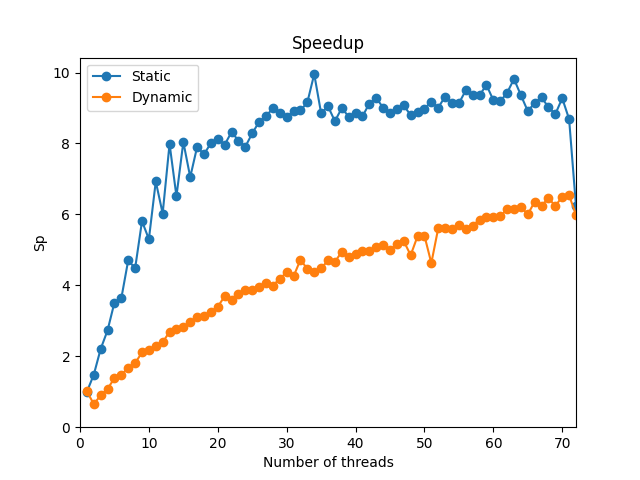
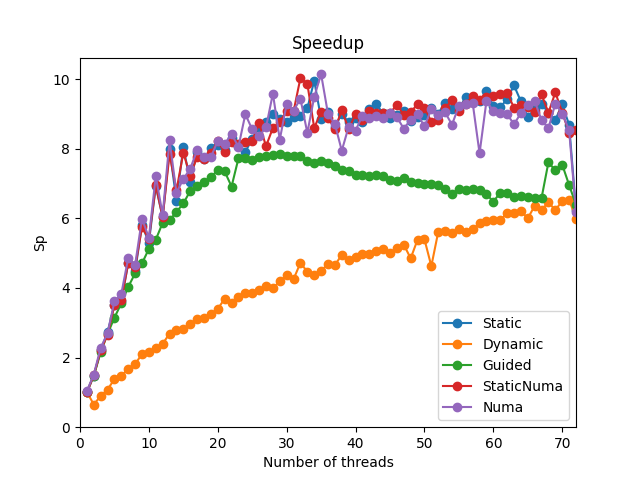
Completed Task 9 and outlined Task 10

diff --git a/speedup.py b/speedup.py
@@ -11,15 +11,32 @@ times1Dynamic = [32.8484, 52.6335, 37.1783, 30.071, 23.9616, 22.1027, 19.2425, 1
 times2Dynamic = [32.4279, 49.7113, 36.1594, 30.4442, 23.6621, 22.2762, 19.9909, 18.244, 15.5458, 15.666, 14.2848, 13.661, 12.6123, 12.3755, 11.7569, 11.3029, 10.8057, 9.93926, 10.499, 10.0047, 9.60067, 9.32298, 8.84968, 8.91768, 8.11446, 8.49146, 8.38761, 8.17628, 7.98234, 7.83894, 7.69279, 6.92043, 7.31858, 7.52684, 7.06135, 6.80453, 7.13695, 6.58506, 7.02564, 6.71825, 6.73708, 6.73728, 6.43826, 6.42514, 6.30908, 6.42235, 6.2753, 6.30629, 5.98943, 6.32487, 9.37161, 5.83001, 5.8169, 5.81686, 5.89856, 5.6446, 5.85456, 5.68795, 5.64406, 5.54505, 5.58778, 5.35824, 5.38527, 5.24133, 5.6156, 5.08084, 5.19321, 4.99258, 4.93264, 5.0933, 4.85399, 6.28069]
 times3Dynamic = [32.2587, 49.1249, 36.7216, 30.7893, 23.7955, 22.1104, 19.8399, 18.144, 15.6695, 15.3527, 14.629, 13.5979, 12.7003, 12.6268, 11.7868, 11.1648, 10.8927, 10.8657, 10.2065, 9.78856, 9.29841, 9.04579, 9.09542, 8.56107, 8.8048, 8.63606, 7.51705, 8.42818, 7.48019, 7.07609, 7.92124, 6.21913, 7.38923, 7.61599, 7.31153, 7.47861, 6.98978, 6.69512, 6.71364, 6.84292, 6.57832, 6.47322, 6.51332, 6.36225, 6.3276, 6.35087, 6.31934, 7.80881, 6.20807, 6.00367, 5.92901, 5.86021, 5.80028, 5.8964, 5.80871, 5.74799, 5.93484, 5.5302, 5.45806, 5.60683, 5.56247, 5.32585, 5.24932, 5.42943, 5.59375, 5.22713, 5.52537, 5.08627, 5.67103, 5.05252, 5.19845, 5.29971]
 timesDynamic = [(time1+time2+time3)/3 for time1,time2,time3 in zip(times1Dynamic,times2Dynamic,times3Dynamic)]
-Speedup = [timesStatic[0]/time for time in timesStatic]
+times1StaticNuma = [33.6972, 22.0721, 15.0282, 12.1709, 9.25962, 8.87557, 6.94593, 7.11662, 5.57668, 6.04679, 4.81386, 5.37966, 4.25649, 4.93476, 4.10945, 4.63646, 4.24054, 4.33483, 4.19797, 4.16133, 4.18737, 4.05768, 3.95412, 3.70869, 4.21711, 3.59456, 4.12534, 4.24823, 4.157, 3.87886, 3.34256, 3.30836, 3.22243, 3.8752, 3.30348, 3.76456, 3.81563, 3.82026, 3.98509, 3.74957, 3.60335, 3.56401, 3.78694, 3.52069, 3.35222, 3.47292, 3.70803, 3.65429, 3.39329, 3.62295, 3.6239, 3.62239, 3.58876, 3.43406, 3.44816, 3.37786, 3.48082, 3.47498, 3.56133, 3.42249, 3.61704, 3.37543, 3.40256, 3.67566, 3.31048, 3.65908, 3.37369, 3.62689, 3.45507, 4.0588, 3.67623, 3.63421]
+times2StaticNuma = [32.6721, 22.1668, 14.9585, 12.4613, 9.57264, 9.15334, 7.15852, 7.38384, 5.62478, 6.37936, 4.7486, 5.54541, 4.15796, 4.94482, 3.95428, 4.63347, 4.04983, 4.09304, 4.16087, 3.80661, 4.03128, 3.94934, 4.07561, 4.23444, 4.35493, 3.65324, 3.97939, 3.28138, 3.44004, 3.46529, 3.45343, 3.20426, 3.5228, 3.81069, 3.97944, 3.70402, 4.04518, 3.56841, 3.68616, 3.65113, 3.73139, 3.58866, 3.55049, 3.67787, 3.75042, 3.51053, 3.4831, 3.68131, 3.67406, 3.55924, 3.93346, 3.66292, 3.62054, 3.52915, 3.64733, 3.58568, 3.49449, 3.55422, 3.43371, 3.47539, 3.2466, 3.38684, 3.56844, 3.64151, 3.48952, 3.56467, 3.53602, 3.68136, 3.5274, 3.37953, 3.88261, 3.67405]
+times3StaticNuma = [32.3399, 22.0329, 14.7665, 12.5072, 9.29005, 9.04914, 6.79621, 7.01043, 5.9434, 5.8525, 4.6354, 5.43031, 4.15592, 4.63248, 4.45536, 4.39154, 4.41767, 4.36531, 4.19173, 4.0363, 4.27649, 4.05242, 4.09103, 4.10992, 3.41927, 4.03646, 4.12411, 3.95035, 3.67796, 3.50765, 4.08462, 3.32488, 3.25676, 3.79262, 3.61086, 3.64612, 3.65307, 3.45378, 3.85129, 3.57044, 3.85658, 3.71822, 3.60117, 3.72773, 3.83811, 3.66641, 3.80606, 3.57243, 3.56411, 3.56415, 3.69093, 3.9025, 3.55437, 3.53512, 3.75767, 3.65726, 3.40194, 3.45743, 3.42407, 3.46004, 3.45998, 3.50605, 3.78534, 3.33429, 3.94388, 3.68799, 3.41443, 3.61723, 3.28075, 3.47852, 4.10877, 4.24858]
+timesStaticNuma = [(time1+time2+time3)/3 for time1,time2,time3 in zip(times1StaticNuma,times2StaticNuma,times3StaticNuma)]
+times1Guided = [32.1715, 22.094, 15.3676, 12.214, 10.4865, 9.23644, 8.18211, 7.4288, 7.01284, 6.46638, 6.0776, 5.55324, 5.54063, 5.36963, 5.11762, 4.64729, 4.82984, 4.66708, 4.61413, 4.42894, 4.48669, 4.36601, 4.16126, 4.18252, 4.34946, 4.14808, 4.23431, 4.21625, 4.22687, 4.14274, 4.31488, 4.21833, 4.31556, 4.33067, 4.31988, 4.41258, 4.44376, 4.51204, 4.45277, 4.51862, 4.51352, 4.63112, 4.53153, 4.60336, 4.6089, 4.57976, 4.49097, 4.66233, 4.73587, 4.66716, 4.73098, 4.78145, 4.75845, 5.24675, 4.80367, 4.76609, 4.83504, 4.87565, 4.89425, 4.8521, 4.95462, 4.8591, 4.92983, 4.92768, 4.90138, 5.1357, 5.06219, 4.22639, 4.31805, 4.42778, 4.90276, 6.1635]
+times2Guided = [32.5181, 22.4785, 15.2598, 12.4282, 10.5267, 9.27197, 8.14144, 7.52002, 7.08568, 6.39977, 6.07204, 5.4905, 5.47345, 5.36868, 5.16741, 4.94161, 4.61107, 4.67968, 4.61223, 4.59129, 4.52014, 5.42893, 4.36467, 4.35981, 4.33999, 4.24618, 4.29139, 4.11461, 4.07948, 4.30822, 4.21266, 4.24136, 4.2187, 4.28334, 4.30801, 4.31545, 4.29898, 4.44603, 4.38475, 4.5755, 4.60495, 4.5312, 4.51585, 4.48982, 4.62666, 4.70663, 4.64249, 4.70933, 4.55331, 4.72413, 4.73938, 4.70636, 4.74366, 4.75128, 4.75572, 4.7386, 4.75689, 4.77808, 4.84732, 5.38824, 4.88831, 4.88084, 4.9619, 4.94923, 4.99368, 4.98734, 4.90383, 4.45787, 4.26586, 4.34723, 5.01282, 4.28477]
+times3Guided = [31.9477, 22.2387, 15.1755, 12.187, 10.3314, 9.23178, 8.16105, 7.38756, 6.86851, 6.39688, 6.16975, 5.76508, 5.58053, 5.2201, 5.06833, 4.95382, 4.80151, 4.66335, 4.49081, 4.35648, 4.42629, 4.47869, 4.25703, 4.20873, 4.15688, 4.34088, 4.16335, 4.27913, 4.27347, 4.2003, 4.13378, 4.18829, 4.37196, 4.36784, 4.30135, 4.25269, 4.39561, 4.40531, 4.56125, 4.52416, 4.50731, 4.48894, 4.59641, 4.6036, 4.64752, 4.64059, 4.63591, 4.65193, 4.78298, 4.70614, 4.63352, 4.70272, 4.92493, 4.72895, 4.83509, 4.99346, 4.83744, 4.80979, 4.99664, 4.99345, 4.80944, 4.90993, 5.04359, 4.96365, 5.0352, 4.89426, 5.02159, 4.27997, 4.7991, 4.31289, 4.26889, 5.00572]
+timesGuided = [(time1+time2+time3)/3 for time1,time2,time3 in zip(times1Guided,times2Guided,times3Guided)]
+times1Numa = [31.8835, 21.7996, 14.5836, 12.4134, 9.1711, 8.63239, 6.85908, 7.15359, 5.54762, 6.17272, 4.59112, 5.34015, 4.0364, 4.91059, 4.84982, 4.55696, 4.26993, 4.47734, 4.29092, 4.09635, 3.87343, 3.94721, 4.06555, 3.80302, 3.67394, 3.93173, 4.18143, 3.29427, 4.07188, 3.2398, 3.3235, 3.73239, 3.91502, 3.39198, 3.1814, 3.72887, 3.66989, 4.58648, 4.10267, 3.65899, 3.64352, 3.7494, 3.76632, 3.71687, 3.58437, 3.63993, 3.95292, 3.79852, 3.773, 3.81538, 3.60985, 3.72178, 3.66789, 3.85872, 3.47101, 3.41197, 3.47676, 4.65414, 3.53681, 3.53009, 3.41556, 3.60374, 3.43443, 3.62406, 3.40746, 3.56863, 3.70149, 3.88479, 3.41102, 3.56108, 3.9163, 3.68649]
+times2Numa = [31.4331, 21.6799, 14.2813, 11.9485, 9.03714, 8.532, 6.67631, 6.96331, 5.43459, 5.9153, 4.53715, 5.43386, 3.94497, 4.86191, 4.3771, 4.3036, 4.00214, 4.01241, 4.19095, 3.89911, 4.21136, 3.86683, 4.1014, 3.51489, 4.01787, 3.93572, 3.45925, 3.57056, 3.89159, 3.84543, 3.90936, 3.24249, 3.8668, 3.5426, 3.30532, 3.58161, 3.88396, 3.69674, 3.51889, 4.06357, 3.70532, 3.66554, 3.5862, 3.68114, 3.71441, 3.75006, 3.71663, 3.65055, 3.54585, 3.79972, 3.59047, 3.62304, 3.60685, 3.71311, 3.65521, 3.67628, 3.58696, 3.70805, 3.4862, 3.71044, 3.8698, 3.71402, 4.12461, 3.66979, 3.69302, 3.45005, 3.76085, 3.77211, 3.66735, 3.74233, 3.79523, 6.96492]
+timesNuma = [(time1+time2)/2 for time1,time2 in zip(times1Numa,times2Numa)]
+SpeedupStatic = [timesStatic[0]/time for time in timesStatic]
 SpeedupDynamic = [timesStatic[0]/time for time in timesDynamic]
-Efficiency = [speedup/thread for speedup,thread in zip(Speedup,threads)]
+SpeedupGuided = [timesStatic[0]/time for time in timesGuided]
+SpeedupStaticNuma = [timesStatic[0]/time for time in timesStaticNuma]
+SpeedupNuma = [timesStatic[0]/time for time in timesNuma]
+Efficiency = [speedup/thread for speedup,thread in zip(SpeedupStatic,threads)]
 
-max = np.argmax(Speedup)
-print("Maximum speedup: ", Speedup[max], "with ", threads[max], "threads")
+max = np.argmax(SpeedupStatic)
+print("Maximum speedup: ", SpeedupStatic[max], "with ", threads[max], "threads")
 
-plt.plot(threads, Speedup, 'o-', label='Static')
+plt.plot(threads, SpeedupStatic, 'o-', label='Static')
 plt.plot(threads, SpeedupDynamic, 'o-', label="Dynamic")
+plt.plot(threads, SpeedupGuided, 'o-', label="Guided")
+plt.plot(threads, SpeedupStaticNuma, 'o-', label="StaticNuma")
+plt.plot(threads, SpeedupNuma, 'o-', label="Numa")
 plt.title('Speedup')
 plt.xlabel('Number of threads')
 plt.ylabel('Sp')
@@ -28,13 +45,3 @@ ax = plt.gca()
 ax.set_ylim(ymin=0)
 ax.set_xlim(xmin=0, xmax=72)
 plt.savefig('speedup.png')
-plt.clf()
-plt.plot(threads, Efficiency, 'o-')
-plt.title('Efficiency')
-plt.xlabel('Number of threads')
-plt.ylabel('Sp/p')
-ax = plt.gca()
-ax.set_ylim(ymin=0,ymax=1)
-ax.set_xlim(xmin=0,xmax=72)
-plt.savefig('efficiency.png')
-

diff --git a/src/patches/wavePropagation2d/WavePropagation2d.cpp b/src/patches/wavePropagation2d/WavePropagation2d.cpp
@@ -54,114 +54,106 @@ void tsunami_lab::patches::WavePropagation2d::timeStep(t_real i_scaling)
 {
   setGhostCellsX();
 // init new cell quantities
-#pragma omp parallel
-  {
-#pragma omp for nowait
-    for (t_idx l_cy = 0; l_cy < m_nCellsy + 1; l_cy++)
-#pragma omp simd
-      for (t_idx l_cx = 0; l_cx < m_nCellsx + 1; l_cx++)
-      {
-        m_hTemp[getCoord(l_cx, l_cy)] = m_h[getCoord(l_cx, l_cy)];
-        m_huvTemp[getCoord(l_cx, l_cy)] = m_hu[getCoord(l_cx, l_cy)];
-      }
+#pragma omp parallel for simd
+  for (t_idx l_cy = 0; l_cy < m_nCellsy + 1; l_cy++)
+    for (t_idx l_cx = 0; l_cx < m_nCellsx + 1; l_cx++)
+    {
+      m_hTemp[getCoord(l_cx, l_cy)] = m_h[getCoord(l_cx, l_cy)];
+      m_huvTemp[getCoord(l_cx, l_cy)] = m_hu[getCoord(l_cx, l_cy)];
+    }
 
 // iterate over edges and update with Riemann solutions in x direction
-#pragma omp for nowait
-    for (t_idx l_ey = 0; l_ey < m_nCellsy + 1; l_ey++)
-      for (t_idx l_ex = 0; l_ex < m_nCellsx + 1; l_ex++)
+#pragma omp parallel for
+  for (t_idx l_ey = 0; l_ey < m_nCellsy + 1; l_ey++)
+    for (t_idx l_ex = 0; l_ex < m_nCellsx + 1; l_ex++)
+    {
+      // determine left and right cell-id
+      t_idx l_ceL = getCoord(l_ex, l_ey);
+      t_idx l_ceR = getCoord(l_ex + 1, l_ey);
+
+      // compute net-updates
+      t_real l_netUpdates[2][2];
+
+      if (m_useFWave)
       {
-        // determine left and right cell-id
-        t_idx l_ceL = getCoord(l_ex, l_ey);
-        t_idx l_ceR = getCoord(l_ex + 1, l_ey);
-
-        // compute net-updates
-        t_real l_netUpdates[2][2];
-
-        if (m_useFWave)
-        {
-          solvers::FWave::netUpdates(m_hTemp[l_ceL],
-                                     m_hTemp[l_ceR],
-                                     m_huvTemp[l_ceL],
-                                     m_huvTemp[l_ceR],
-                                     m_b[l_ceL],
-                                     m_b[l_ceR],
-                                     l_netUpdates[0],
-                                     l_netUpdates[1]);
-        }
-        else
-        {
-          solvers::Roe::netUpdates(m_hTemp[l_ceL],
+        solvers::FWave::netUpdates(m_hTemp[l_ceL],
                                    m_hTemp[l_ceR],
                                    m_huvTemp[l_ceL],
                                    m_huvTemp[l_ceR],
+                                   m_b[l_ceL],
+                                   m_b[l_ceR],
                                    l_netUpdates[0],
                                    l_netUpdates[1]);
-        }
-
-        // update the cells' quantities
-        m_h[l_ceL] -= i_scaling * l_netUpdates[0][0];
-        m_hu[l_ceL] -= i_scaling * l_netUpdates[0][1];
-
-        m_h[l_ceR] -= i_scaling * l_netUpdates[1][0];
-        m_hu[l_ceR] -= i_scaling * l_netUpdates[1][1];
       }
-  }
+      else
+      {
+        solvers::Roe::netUpdates(m_hTemp[l_ceL],
+                                 m_hTemp[l_ceR],
+                                 m_huvTemp[l_ceL],
+                                 m_huvTemp[l_ceR],
+                                 l_netUpdates[0],
+                                 l_netUpdates[1]);
+      }
+
+      // update the cells' quantities
+      m_h[l_ceL] -= i_scaling * l_netUpdates[0][0];
+      m_hu[l_ceL] -= i_scaling * l_netUpdates[0][1];
+
+      m_h[l_ceR] -= i_scaling * l_netUpdates[1][0];
+      m_hu[l_ceR] -= i_scaling * l_netUpdates[1][1];
+    }
 
   setGhostCellsY();
 
 // init new cell quantities
-#pragma omp parallel
-  {
-#pragma omp for nowait
-    for (t_idx l_cy = 0; l_cy < m_nCellsy + 1; l_cy++)
-#pragma omp simd
-      for (t_idx l_cx = 0; l_cx < m_nCellsx + 1; l_cx++)
-      {
-        m_hTemp[getCoord(l_cx, l_cy)] = m_h[getCoord(l_cx, l_cy)];
-        m_huvTemp[getCoord(l_cx, l_cy)] = m_hv[getCoord(l_cx, l_cy)];
-      }
+#pragma omp parallel for simd
+  for (t_idx l_cy = 0; l_cy < m_nCellsy + 1; l_cy++)
+    for (t_idx l_cx = 0; l_cx < m_nCellsx + 1; l_cx++)
+    {
+      m_hTemp[getCoord(l_cx, l_cy)] = m_h[getCoord(l_cx, l_cy)];
+      m_huvTemp[getCoord(l_cx, l_cy)] = m_hv[getCoord(l_cx, l_cy)];
+    }
 
 // iterate over edges and update with Riemann solutions in y direction
-#pragma omp for nowait
-    for (t_idx l_ex = 0; l_ex < m_nCellsx + 1; l_ex++)
-      for (t_idx l_ey = 0; l_ey < m_nCellsy + 1; l_ey++)
+#pragma omp parallel for
+  for (t_idx l_ex = 0; l_ex < m_nCellsx + 1; l_ex++)
+    for (t_idx l_ey = 0; l_ey < m_nCellsy + 1; l_ey++)
+    {
+      // determine top and bottom cell-id
+      t_idx l_ceB = getCoord(l_ex, l_ey);
+      t_idx l_ceT = getCoord(l_ex, l_ey + 1);
+
+      // compute net-updates
+      t_real l_netUpdates[2][2];
+
+      if (m_useFWave)
       {
-        // determine top and bottom cell-id
-        t_idx l_ceB = getCoord(l_ex, l_ey);
-        t_idx l_ceT = getCoord(l_ex, l_ey + 1);
-
-        // compute net-updates
-        t_real l_netUpdates[2][2];
-
-        if (m_useFWave)
-        {
-          solvers::FWave::netUpdates(m_hTemp[l_ceB],
-                                     m_hTemp[l_ceT],
-                                     m_huvTemp[l_ceB],
-                                     m_huvTemp[l_ceT],
-                                     m_b[l_ceB],
-                                     m_b[l_ceT],
-                                     l_netUpdates[0],
-                                     l_netUpdates[1]);
-        }
-        else
-        {
-          solvers::Roe::netUpdates(m_hTemp[l_ceB],
+        solvers::FWave::netUpdates(m_hTemp[l_ceB],
                                    m_hTemp[l_ceT],
                                    m_huvTemp[l_ceB],
                                    m_huvTemp[l_ceT],
+                                   m_b[l_ceB],
+                                   m_b[l_ceT],
                                    l_netUpdates[0],
                                    l_netUpdates[1]);
-        }
-
-        // update the cells' quantities
-        m_h[l_ceB] -= i_scaling * l_netUpdates[0][0];
-        m_hv[l_ceB] -= i_scaling * l_netUpdates[0][1];
-
-        m_h[l_ceT] -= i_scaling * l_netUpdates[1][0];
-        m_hv[l_ceT] -= i_scaling * l_netUpdates[1][1];
       }
-  }
+      else
+      {
+        solvers::Roe::netUpdates(m_hTemp[l_ceB],
+                                 m_hTemp[l_ceT],
+                                 m_huvTemp[l_ceB],
+                                 m_huvTemp[l_ceT],
+                                 l_netUpdates[0],
+                                 l_netUpdates[1]);
+      }
+
+      // update the cells' quantities
+      m_h[l_ceB] -= i_scaling * l_netUpdates[0][0];
+      m_hv[l_ceB] -= i_scaling * l_netUpdates[0][1];
+
+      m_h[l_ceT] -= i_scaling * l_netUpdates[1][0];
+      m_hv[l_ceT] -= i_scaling * l_netUpdates[1][1];
+    }
 }
 
 void tsunami_lab::patches::WavePropagation2d::setGhostCellsX()

diff --git a/docs/UserDoc/9_Parallelization.rst b/docs/UserDoc/9_Parallelization.rst
@@ -19,7 +19,7 @@ Julius Halank: all members contributed equally
 
 
 9.1 & 9.3 Parallize Solver with OpenMP
-------------------------------------
+--------------------------------------
 
 We parallized our solver with OpenMP Pragmas. We added them in the following parts of :code:`WavePropagation2d`:
 
@@ -84,8 +84,8 @@ We also found a significant performance drop when we parallized the inner loop.
 Its probably caused by the massive overhead of creating and destroying threads for each outer loop iteration.
 Parallizing the inner loop raised our time per cell and iteration from 5ns to over 50ns (worse than the not parallized code that runs at roughly 28ns).
 
-9.2 Runtime Parallel Solver
----------------------------
+9.2 & 9.4 Runtime Parallel Solver with various Scheduling Strategies
+--------------------------------------------------------------------
 
 To make the solutions comparable to `8 Optimization`_ we also used :code:`./build/tsunami_lab -i -u "Tsunami2d output/tohoku_gebco20_usgs_250m_displ.nc output/tohoku_gebco20_usgs_250m_bath.nc 18000" 4000` as config.
 
@@ -118,15 +118,29 @@ To make the solutions comparable to `8 Optimization`_ we also used :code:`./buil
 .. figure:: _static/9_speedup.png
     :width: 700
 
-    Speedup of the parallel solver over number of threads averaged over 3 runs.
+    Speedup of the parallel solver over number of threads averaged over 3 runs. |br|
+    Static: static scheduling |br|
+    Dynamic: dynamic scheduling |br|
+    Guided: guided scheduling |br|
+    StaticNuma: static scheduling with :code:`OMP_PLACES=numa_domains` |br|
+    Numa: static scheduling with :code:`OMP_PLACES=numa_domains` and NUMA-aware array initialization
 
 The static solver seems to rise in performance approximately linear until 16 threads and then only very slowly rises over the remaining threads.
 Using all threads imposed an interesting drastic drop in performance, probably because the last thread was also responsible for other programs and unbalances our workload.
 Our maximum seems to be at 34 Threads so 2 threads short of 1 thread per core.
+Enabling NUMA pinning seemed to make no difference.
+NUMA aware array initialization seemed to make no difference other than significantly decreasing the performance with all threads enabled.
 
 The dynamic solver interestingly decreases in performance on 2 threads and then rises slowly with each added thread. 
 It is significantly slower than the static solver though (losing approximately 1/3 of the performance), so we won't further consider using this for the time being.
 
+The guided solver starts off with a similar performance to the static solver but then lowers itself to the dynamic solver.
+This could be caused by our comparitively small workload and the guided scheduler not being able to find a good chunk size for our workload.
+It would need further testing at significantly larger workloads to be able to make a statement about its performance.
 
-9.4 Scheduling and Pinning Strategies
--------------------------------------
+In our opinion the default :code:`#pragma omp parallel for` with static scheduling is the best choice for our workload.
+All other schedulers seem to be either slower or not significantly faster than the static scheduler, but more prone to implementation errors.
+
+.. |br| raw:: html
+
+      <br>

diff --git a/docs/UserDoc/10_CUDA.rst b/docs/UserDoc/10_CUDA.rst
@@ -1,0 +1,29 @@
+10 CUDA
+=======
+Links
+-----
+
+`Github Repo <https://github.com/Minutenreis/tsunami_lab>`_
+
+`User Doc <https://tsunami-lab.readthedocs.io/en/latest/>`_
+
+Individual Contributions
+------------------------
+
+Justus Dreßler: all members contributed equally
+
+Thorsten Kröhl: all members contributed equally
+
+Julius Halank: all members contributed equally
+
+Project Plan
+------------
+
+Goals
+^^^^^
+
+Milestones
+^^^^^^^^^^
+
+Work Packages
+^^^^^^^^^^^^^

diff --git a/docs/UserDoc/index.rst b/docs/UserDoc/index.rst
@@ -17,6 +17,7 @@
    7_Checkpointing
    8_Optimization
    9_Parallelization
+   10_CUDA
    doxygen
 
 User Documentation
